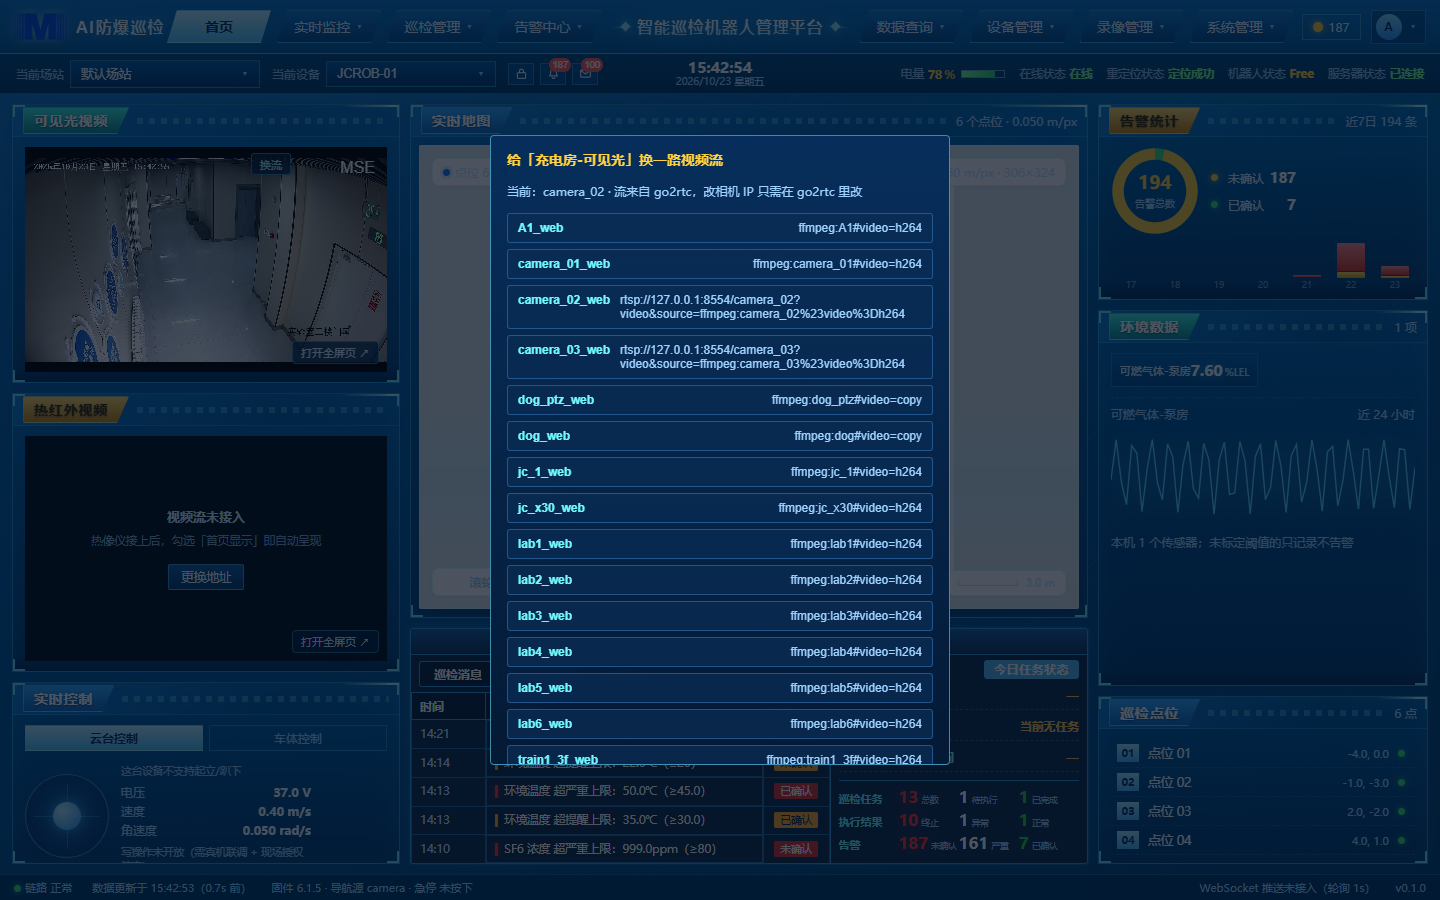
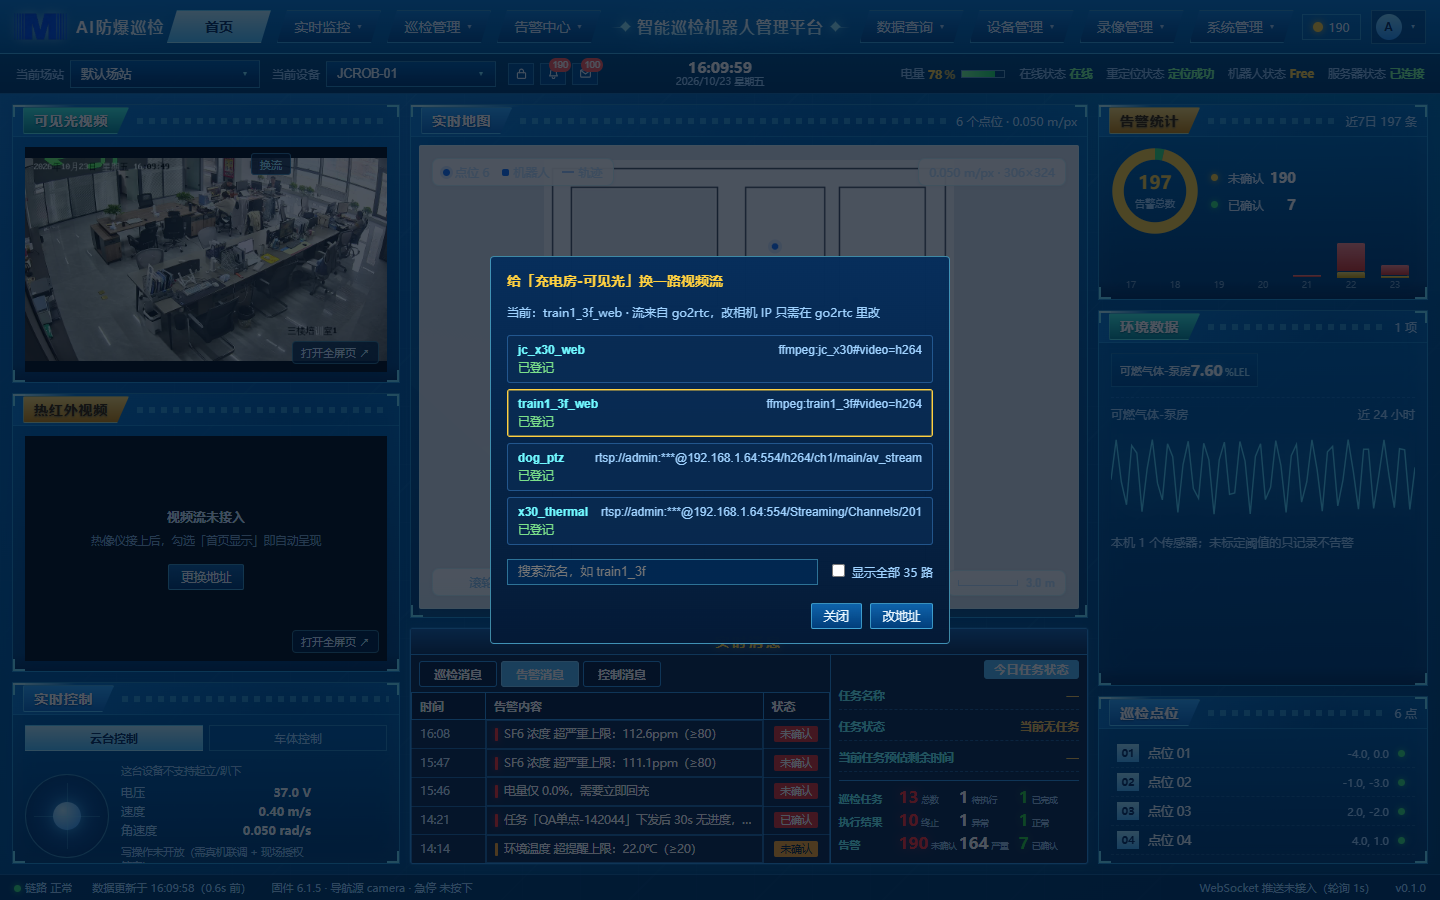
fix(video): 首页画面改全幅 contain（不再被裁切）+ 换流默认只列已登记
三个问题的根因与修法：

1) "换流为什么这么多"
   go2rtc 里实际有 35 路（含 lab1–6、A1、test 等实验室/测试流），
   而「实时监控」页只列数据库里登记过的摄像头（4 路），所以两边对不上。
   现在换流弹窗默认只显示：已登记摄像头 + 当前这路 = 4 路；
   勾「显示全部 35 路」才展开，并带搜索框。

2) "换了 train1-3f 不是广角/不全"
   流本身没问题：train1_3f 与 train1_3f_web 同源（192.168.1.17 ch1/main），
   抓帧确认 1920×1080、整间培训室都在画面里。
   问题在 go2rtc 的 stream.html 播放器：铺满容器 → 两侧被裁，看起来"变窄"。
   首页改成 <img> 轮询 /videos/{id}/live.jpg（后端代理 go2rtc 一帧，2.5fps）
   + object-fit: contain → 整幅画面完整显示，不裁切，也不再出现
   "mse: dial tcp ... no route to host"。
   要流畅播放点「打开全屏页」。

3) 探针误判：转码流首帧慢，2.5s 单次超时会判成离线
   probe_frame 改 2 次重试；实测 train1_3f_web 由 TimeoutError → 219084B ok。

附带：go2rtc-streams 返回 registered 标记；首页每 60s 重新探测。
验证：live img 渲染、默认换流 4 路、显示全部 35 路、77 用例通过。

diff --git a/web/src/pages/Dashboard.vue b/web/src/pages/Dashboard.vue
@@ -134,6 +134,8 @@ function onDevice(v: string) {
   timers = []
   timers.push(window.setInterval(loadEnv, 15000))
   timers.push(window.setInterval(loadVideoHealth, 60000))
+  window.clearInterval(tickTimer)
+  tickTimer = window.setInterval(() => { tick.value = Date.now() }, 400)
   timers.push(window.setInterval(loadTrend, 60000))
   timers.push(window.setInterval(loadRuns, 10000))
   timers.push(window.setInterval(loadFeed, 15000))
@@ -162,10 +164,33 @@ function openVideo(which: string) {
 const busyMotion = ref(false)
 // 视频健康：真抓一帧判断流有没有画面；没画面就不渲染播放器，改显示"未接入"
 const videoHealth = ref<Record<number, { ok: boolean; reason: string }>>({})
+// 图片轮询：2.5 帧/秒够看现场，全幅 contain 不裁切，也不会把 go2rtc 的报错糊上来
+const tick = ref(0)
+let tickTimer = 0
+
+function liveSrc(v: { id: number } | null): string {
+  return v ? `/api/v1/videos/${v.id}/live.jpg?t=${tick.value}` : ''
+}
+
+function onLiveError(v: { id: number } | null) {
+  if (v) videoHealth.value = { ...videoHealth.value, [v.id]: { ok: false, reason: '画面中断' } }
+}
 // 换流：直接列出 go2rtc 里现有的流，选一个就改这路视频源
 const pickOpen = ref(false)
 const pickFor = ref<{ id: number; name: string; stream_name: string } | null>(null)
-const pickStreams = ref<{ name: string; source: string; web: boolean; ready: boolean }[]>([])
+const pickStreams = ref<{ name: string; source: string; web: boolean; ready: boolean; registered?: boolean }[]>([])
+const pickAll = ref(false)
+const pickQ = ref('')
+
+// 默认只列"已登记的摄像头 + 当前这路"，避免 35 路实验室流糊一脸
+const pickFiltered = computed(() => {
+  const kw = pickQ.value.trim().toLowerCase()
+  return pickStreams.value.filter((s) => {
+    if (!pickAll.value && !s.registered && s.name !== pickFor.value?.stream_name) return false
+    if (kw && !s.name.toLowerCase().includes(kw)) return false
+    return true
+  })
+})
 const pickBusy = ref(false)
 
 async function openPick(v: { id: number; name: string; stream_name: string } | null) {
@@ -481,6 +506,8 @@ onMounted(async () => {
   timers = []
   timers.push(window.setInterval(loadEnv, 15000))
   timers.push(window.setInterval(loadVideoHealth, 60000))
+  window.clearInterval(tickTimer)
+  tickTimer = window.setInterval(() => { tick.value = Date.now() }, 400)
   timers.push(window.setInterval(loadTrend, 60000))
   timers.push(window.setInterval(loadRuns, 10000))
   timers.push(window.setInterval(loadFeed, 15000))
@@ -585,7 +612,8 @@ async function logout() {
       <aside class="col left">
         <ScadaPanel title="可见光视频" tone="cyan" class="grow" body-class="no-pad">
           <div class="embed">
-            <iframe v-if="visibleStream && healthOf(visibleVideo).ok" :src="visibleStream" title="可见光" allow="autoplay; fullscreen" />
+            <img v-if="visibleVideo && healthOf(visibleVideo).ok" class="live-img" :src="liveSrc(visibleVideo)"
+                 alt="可见光实时画面" @error="onLiveError(visibleVideo)" />
             <div v-else class="embed-empty">
               <b>视频流未接入</b>
               <span v-if="visibleVideo">原因：{{ healthOf(visibleVideo).reason }} · 相机离线或地址失效</span>
@@ -602,7 +630,8 @@ async function logout() {
 
         <ScadaPanel title="热红外视频" tone="gold" class="grow" body-class="no-pad">
           <div class="embed">
-            <iframe v-if="thermalStream && healthOf(thermalVideo).ok" :src="thermalStream" title="热红外" allow="autoplay; fullscreen" />
+            <img v-if="thermalVideo && healthOf(thermalVideo).ok" class="live-img" :src="liveSrc(thermalVideo)"
+                 alt="热红外实时画面" @error="onLiveError(thermalVideo)" />
             <div v-else class="embed-empty">
               <b>视频流未接入</b>
               <span v-if="thermalVideo">原因：{{ healthOf(thermalVideo).reason }}</span>
@@ -808,14 +837,19 @@ async function logout() {
         <h4>给「{{ pickFor?.name }}」换一路视频流</h4>
         <p class="dim small">当前：{{ pickFor?.stream_name || '未设置' }} · 流来自 go2rtc，改相机 IP 只需在 go2rtc 里改</p>
         <div class="pick-list">
-          <button v-for="s in pickStreams" :key="s.name" class="pick-item"
+          <button v-for="s in pickFiltered" :key="s.name" class="pick-item"
                   :class="{ on: s.name === pickFor?.stream_name, off: !s.ready }"
                   @click="s.ready && chooseStream(s.name)">
             <b>{{ s.name }}</b>
             <span class="dim">{{ s.source || '无源' }}</span>
             <em v-if="!s.ready">无信号</em>
+            <em v-else-if="s.registered" class="reg">已登记</em>
           </button>
-          <p v-if="!pickStreams.length" class="dim small">{{ pickBusy ? '读取中…' : 'go2rtc 里没有可用的流' }}</p>
+          <div class="pick-filter">
+            <input v-model="pickQ" class="input" placeholder="搜索流名，如 train1_3f" />
+            <label class="dim small"><input type="checkbox" v-model="pickAll" /> 显示全部 {{ pickStreams.length }} 路</label>
+          </div>
+          <p v-if="!pickFiltered.length" class="dim small">{{ pickBusy ? '读取中…' : '没有匹配的流' }}</p>
         </div>
         <div class="pick-acts">
           <button class="btn btn-sm" @click="pickOpen = false">关闭</button>
@@ -1624,4 +1658,10 @@ async function logout() {
 .pick-item.on { border-color: #ffd040; box-shadow: 0 0 0 1px rgba(255,208,64,.45) inset; }
 .pick-item em { color: #ff8b8b; font-style: normal; }
 .pick-acts { display: flex; justify-content: flex-end; gap: 8px; }
+
+.live-img { width: 100%; height: 100%; object-fit: contain; background: #04101f; display: block; }
+
+.pick-filter { display: flex; align-items: center; gap: 10px; margin: 8px 0; }
+.pick-filter .input { flex: 1; }
+.pick-item .reg { color: #7be08a; }
 </style>

diff --git a/server/app/api/v1/videos.py b/server/app/api/v1/videos.py
@@ -155,6 +155,7 @@ def list_videos(
 
 @router.get("/go2rtc-streams")
 def list_go2rtc_streams(
+    db: Session = Depends(get_db),
     _: User = Depends(require_roles("admin", "operator", "viewer")),
 ) -> dict:
     """把 go2rtc 里已有的流列出来，前端直接选，不用手打流名。
@@ -173,6 +174,8 @@ def list_go2rtc_streams(
     except Exception as exc:  # noqa: BLE001 - 中继不可达只影响这个下拉
         return {"ok": False, "reason": f"go2rtc 不可达：{exc.__class__.__name__}", "streams": []}
 
+    registered = {v.stream_name for v in db.query(VideoSource).all() if v.stream_name}
+
     out = []
     for name, info in data.items():
         producers = info.get("producers") or []
@@ -184,6 +187,7 @@ def list_go2rtc_streams(
             "source": mask_url(source) if source else "",
             "web": name.endswith("_web"),
             "ready": bool(producers),
+            "registered": name in registered,
         })
     out.sort(key=lambda x: (not x["web"], x["name"]))
     return {"ok": True, "streams": out}
@@ -246,6 +250,42 @@ def test_video(
             return {"ok": True, "target": f"{host}:{port}", "message": f"端口 {port} 可连通"}
     except OSError as exc:
         return {"ok": False, "target": f"{host}:{port}", "message": f"连不上：{exc.__class__.__name__}"}
+
+
+@router.get("/{video_id}/live.jpg")
+def live_jpg(
+    video_id: int,
+    db: Session = Depends(get_db),
+    _: User = Depends(require_roles("admin", "operator", "viewer")),
+):
+    """代理 go2rtc 的一帧。
+
+    为什么不让前端 iframe 播：go2rtc 播放器会铺满容器（裁掉两边）并在断流时把
+    "mse: dial tcp ..." 糊在画面上。首页要的是"看全、干净"，用图片 + contain 最稳；
+    需要流畅播放就点「打开全屏页」。
+    """
+    import urllib.request as _req
+
+    from fastapi import Response
+
+    from app.core.errors import ExternalUnavailable
+
+    v = db.get(VideoSource, video_id)
+    if not v or not v.stream_name:
+        raise NotFound("视频源不存在或未设置流名")
+    base = getattr(get_settings(), "go2rtc_base", "") or ""
+    if not base:
+        raise ExternalUnavailable("未配置 go2rtc", code="NO_GO2RTC")
+    url = f"{base.rstrip('/')}/api/frame.jpeg?src={v.stream_name}"
+    try:
+        with _req.urlopen(url, timeout=4) as resp:
+            data = resp.read()
+    except Exception as exc:  # noqa: BLE001
+        raise ExternalUnavailable(f"抓帧失败：{exc.__class__.__name__}", code="FRAME_FAIL") from exc
+    if len(data) < 1024:
+        raise ExternalUnavailable("相机无画面", code="FRAME_EMPTY")
+    return Response(content=data, media_type="image/jpeg",
+                    headers={"Cache-Control": "no-store"})
 
 
 @router.get("/health")

diff --git a/server/app/services/snapshot.py b/server/app/services/snapshot.py
@@ -59,11 +59,19 @@ def probe_frame(stream: str, base: str, timeout: float = 2.5) -> tuple[bool, str
         return False, "未配置视频流"
     q = urllib.parse.urlencode({"src": stream})
     url = f"{base.rstrip('/')}/api/frame.jpeg?{q}"
-    try:
-        with urllib.request.urlopen(url, timeout=timeout) as resp:
-            data = resp.read()
-    except Exception as exc:  # noqa: BLE001
-        return False, f"{exc.__class__.__name__}"
+    last = ""
+    data = b""
+    for _ in range(2):
+        try:
+            with urllib.request.urlopen(url, timeout=timeout) as resp:
+                data = resp.read()
+        except Exception as exc:  # noqa: BLE001
+            last = exc.__class__.__name__
+            data = b""
+        if len(data) >= 1024:
+            break
+    if not data:
+        return False, last or "无响应"
     if len(data) < 1024:
         return False, "相机无画面（0 字节）"
     return True, f"{len(data)}B"
